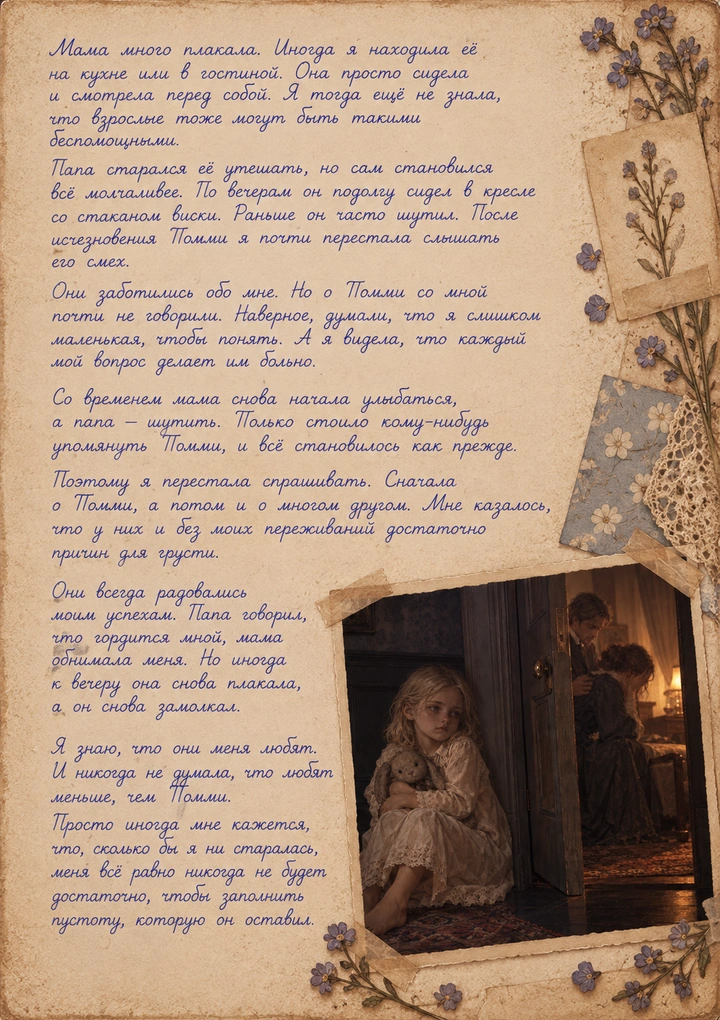
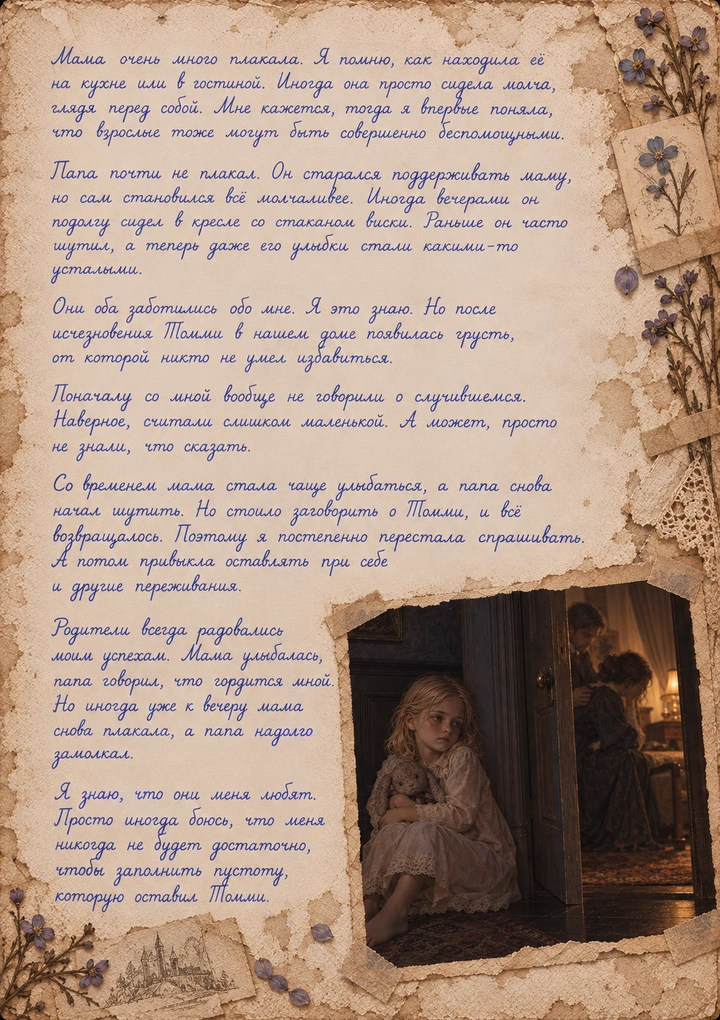
Add files via upload

diff --git a/library.js b/library.js
@@ -114,7 +114,8 @@ window.addEventListener('message',event=>{
   // Page-turn audio is played directly by the viewer during wheel/click.
   if(event.data?.type==='agnes:viewer-error')console.error('Book viewer:',event.data.message);
   if(event.data?.type==='agnes:geometry'){viewerGeometry=event.data.geometry;layoutOutsideZones();}
-  if(event.data?.type==='agnes:page-state'){viewerPage=event.data.state;layoutOutsideZones();}
+  if(event.data?.type==='agnes:page-state'){viewerPage=event.data.state;viewerTurning=false;layoutOutsideZones();}
+  if(event.data?.type==='agnes:turn-start'){viewerTurning=true;layoutOutsideZones();}
 
   if(event.data?.type==='agnes:return-to-shelf')closeBook();
 });
@@ -123,6 +124,7 @@ window.addEventListener('message',event=>{
 // Four hit regions on the parent document explicitly cover the empty margins.
 let viewerGeometry=null;
 let viewerPage='front';
+let viewerTurning=false;
 let viewerCoverRect=null;
 const outsideZones=[];
 for(let i=0;i<5;i++){
@@ -150,9 +152,9 @@ function layoutOutsideZones(){
   // back cover is on the LEFT. The empty half is exactly one page wide.
   // Never use getBoundingClientRect() on a transformed PageFlip cover.
   let coverBlank=[0,0,0,0];
-  if(viewerPage==='front'){
+  if(!viewerTurning && viewerPage==='front'){
     coverBlank=[x+safe,y+safe,Math.max(0,bookW/2-2),bookH];
-  }else if(viewerPage==='back'){
+  }else if(!viewerTurning && viewerPage==='back'){
     coverBlank=[x+safe+bookW/2+2,y+safe,Math.max(0,bookW/2-2),bookH];
   }
   const regions=[

diff --git a/viewer.html b/viewer.html
@@ -1,1 +1,1 @@
-<!doctype html><html lang="ru"><head><meta charset="utf-8"><meta name="viewport" content="width=device-width,initial-scale=1"><title>Book of Tommy</title><link rel="stylesheet" href="style.css?v=72"></head><body><main id="viewer"><div id="flipbook" aria-label="Интерактивная книга: нажмите на край страницы или прокрутите колесо мыши"></div><div id="error" role="alert" hidden></div></main><script src="https://cdn.jsdelivr.net/npm/page-flip@2.0.7/dist/js/page-flip.browser.js"></script><script src="script.js?v=72"></script></body></html>
+<!doctype html><html lang="ru"><head><meta charset="utf-8"><meta name="viewport" content="width=device-width,initial-scale=1"><title>Book of Tommy</title><link rel="stylesheet" href="style.css?v=73"></head><body><main id="viewer"><div id="flipbook" aria-label="Интерактивная книга: нажмите на край страницы или прокрутите колесо мыши"></div><div id="error" role="alert" hidden></div></main><script src="https://cdn.jsdelivr.net/npm/page-flip@2.0.7/dist/js/page-flip.browser.js"></script><script src="script.js?v=73"></script></body></html>

diff --git a/script.js b/script.js
@@ -96,6 +96,7 @@
       if (direction > 0 && i >= urls.length - 2) return;
       if (direction < 0 && i <= 0) return;
       busy = true;
+      window.parent.postMessage({type:'agnes:turn-start'},location.origin);
       playTurnSound();
       // Closing the book occurs when turning onto the back cover,
       // or turning backward from the first inner spread onto the front cover.
